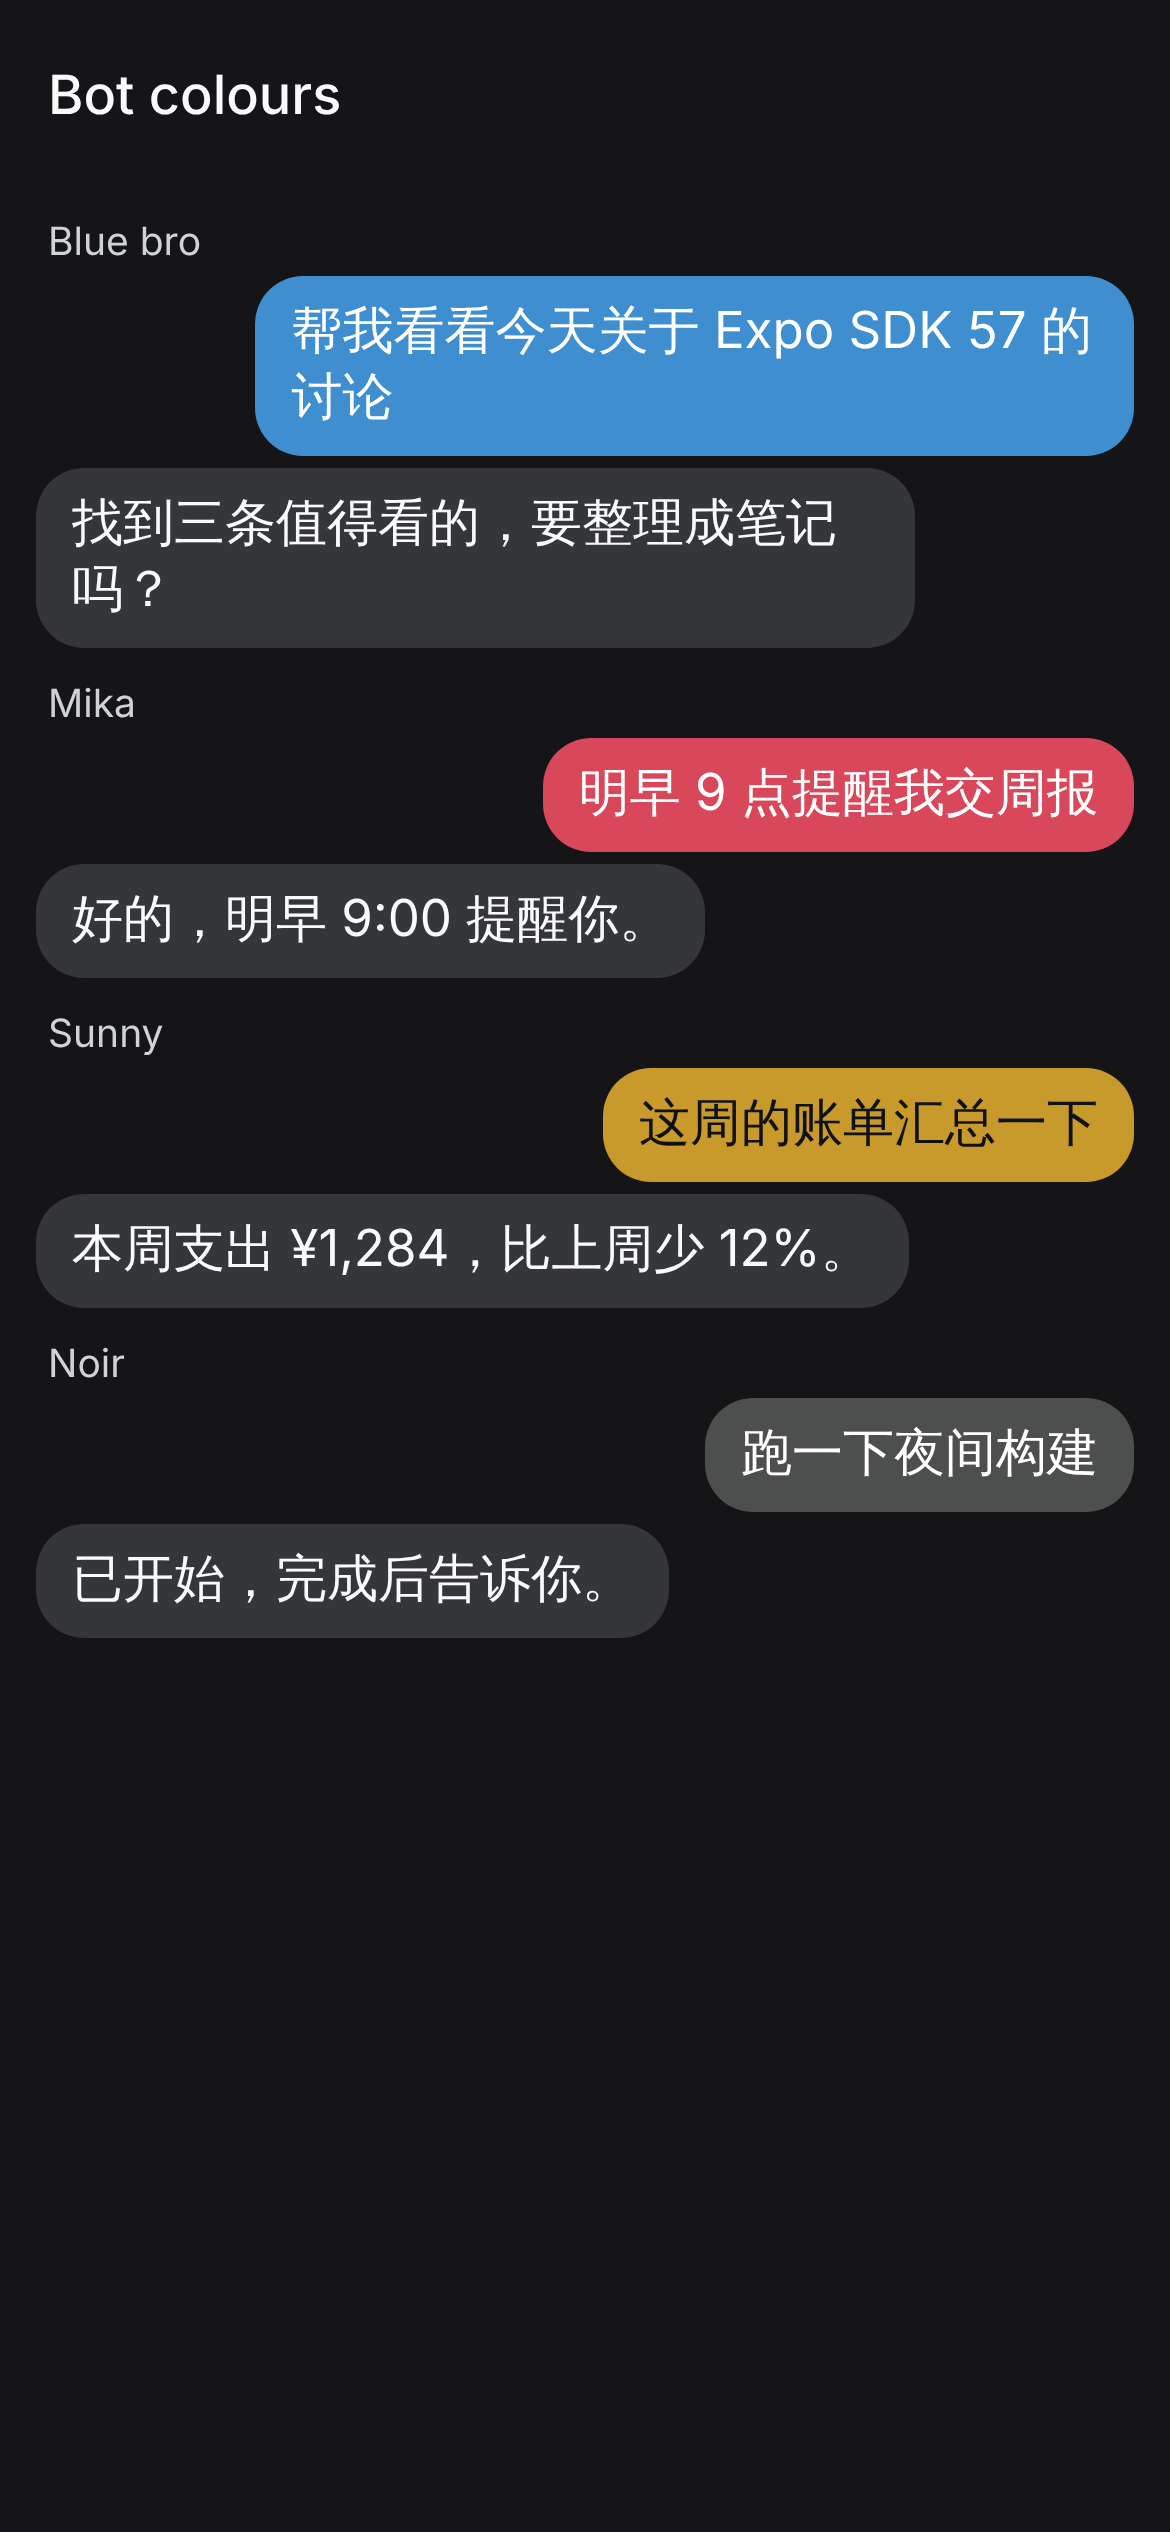
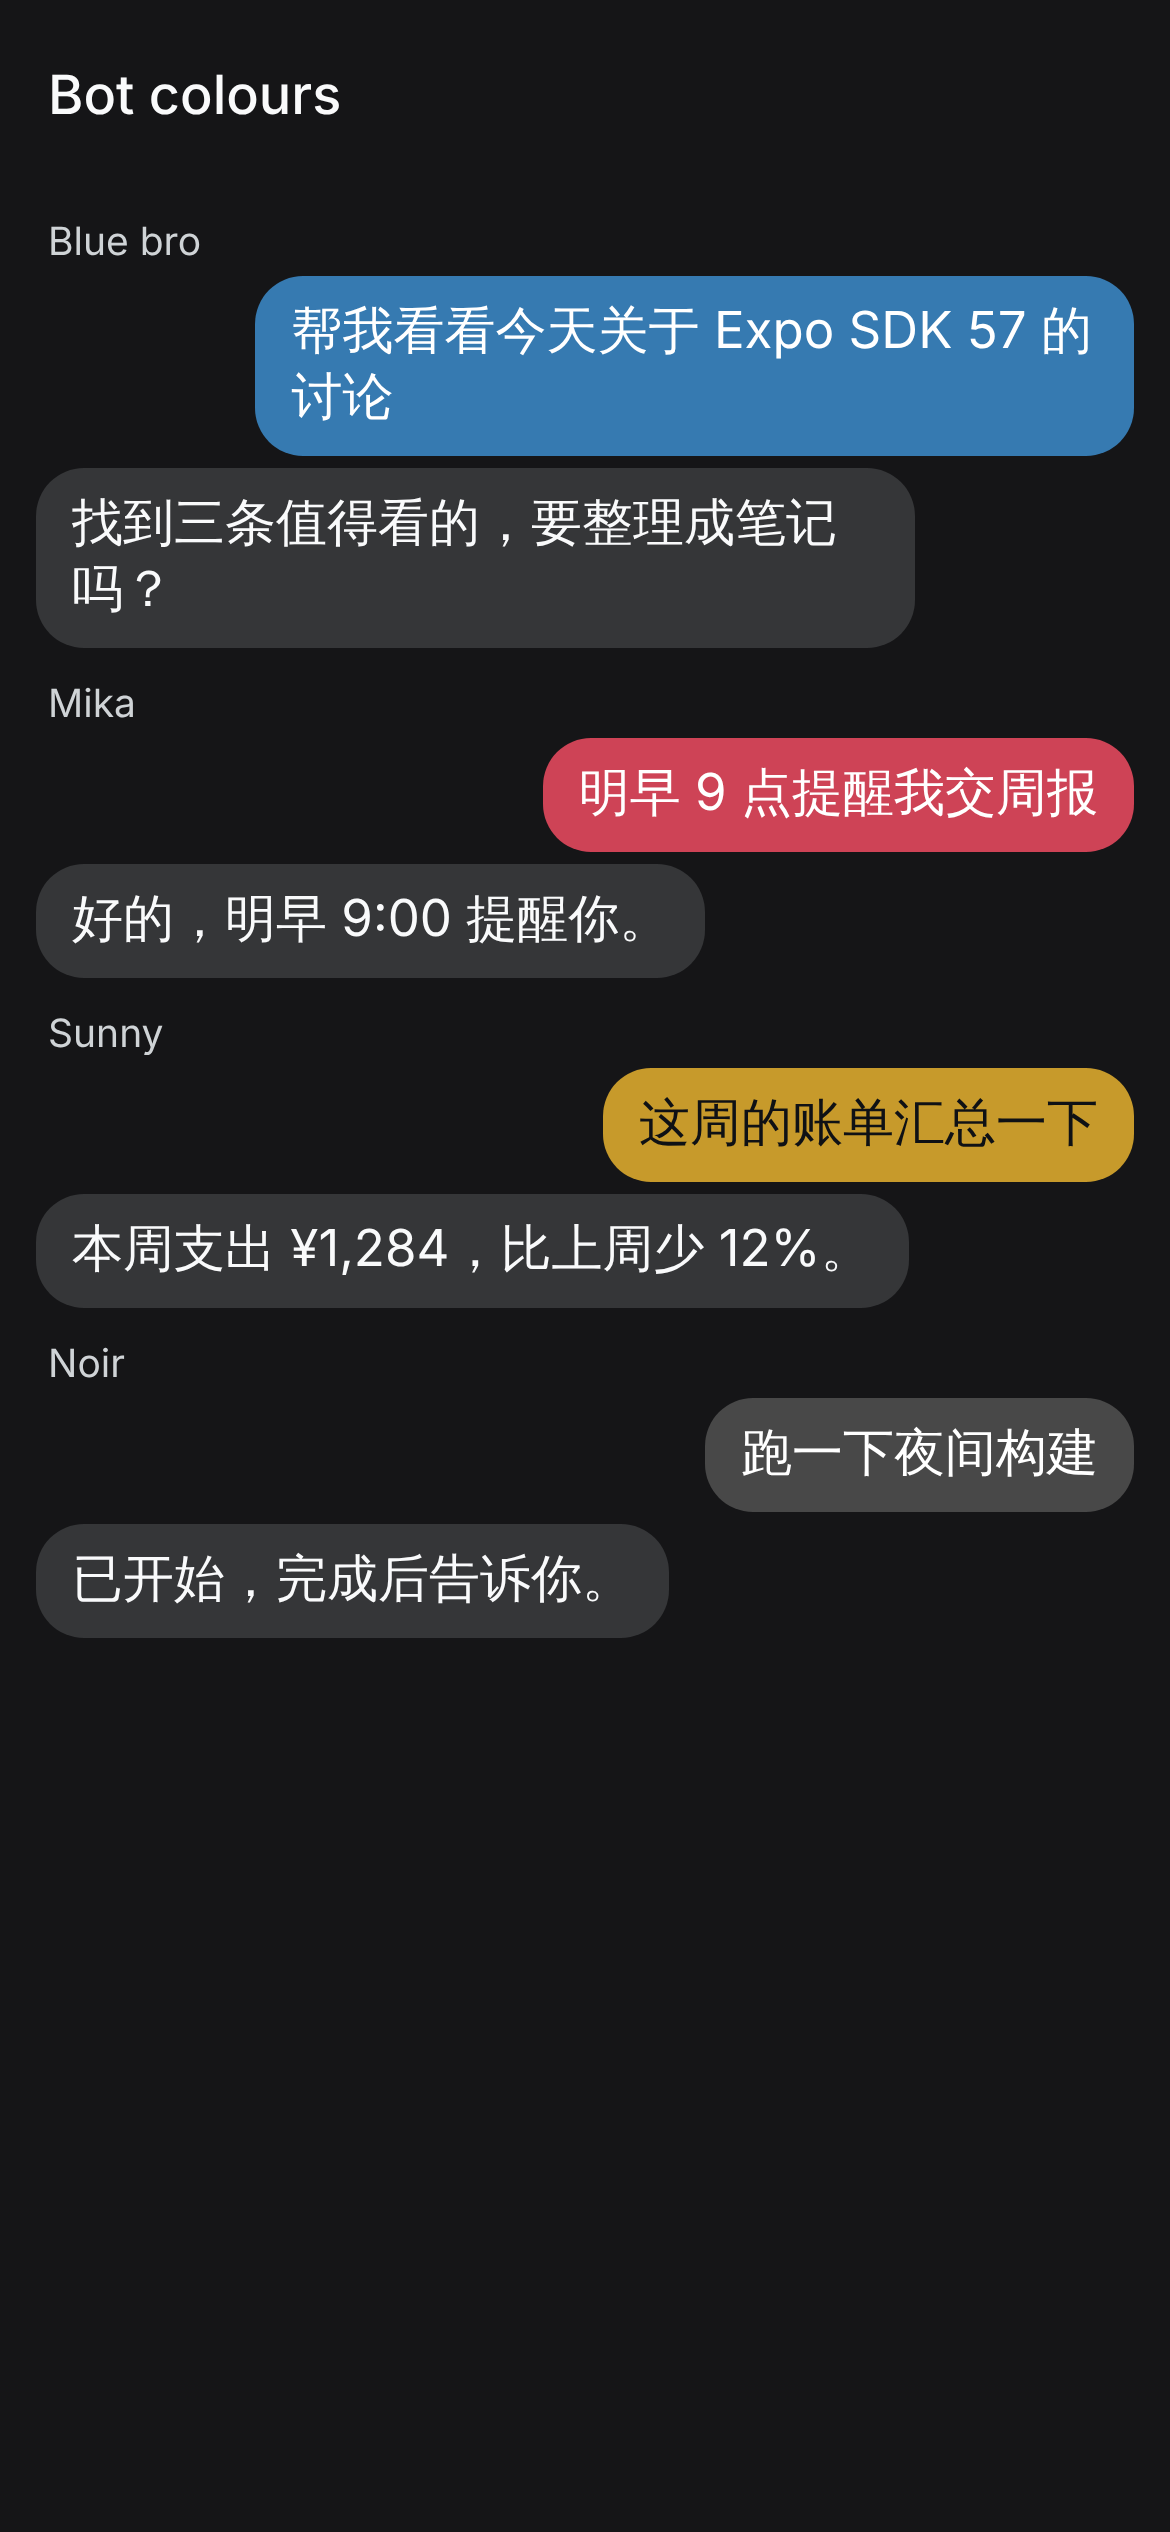
Keep DM message text at 4.5:1 on the Bot colour
A light Bot colour keeps its value and takes dark text; any other colour
takes white text and is darkened just enough to reach 4.5:1. Card labels
in the Human bubble use onAccent, and the style guard also catches named
colour literals.

Claude-Session: https://claude.ai/code/session_01NXyC3bMDx77BSSgVteLdRg

Changed region(s): [[0.2154, 0.0936, 0.9846, 0.1872]]

diff --git a/apps/mobile/test/design-tokens.test.ts b/apps/mobile/test/design-tokens.test.ts
@@ -84,6 +84,16 @@ describe('resolveTheme', () => {
   });
 });
 
+function contrastOf(a: string, b: string): number {
+  const lum = (hex: string) =>
+    [16, 8, 0]
+      .map((shift) => ((Number.parseInt(hex.slice(1), 16) >> shift) & 0xff) / 255)
+      .map((c) => (c <= 0.03928 ? c / 12.92 : ((c + 0.055) / 1.055) ** 2.4))
+      .reduce((sum, c, index) => sum + c * [0.2126, 0.7152, 0.0722][index]!, 0);
+  const [hi, lo] = [lum(a), lum(b)].sort((x, y) => y - x) as [number, number];
+  return (hi + 0.05) / (lo + 0.05);
+}
+
 describe('Bot colour on the Human bubble', () => {
   const bot = { slug: 'ada', displayName: 'Ada', state: 'idle' as const, paused: false };
 
@@ -92,18 +102,28 @@ describe('Bot colour on the Human bubble', () => {
       '#2f9e8f',
     );
     expect(botColor(bot)).toMatch(/^#[0-9a-f]{6}$/);
-    expect(botColor(bot)).toBe(botColor({ ...bot, displayName: 'Ada' }));
   });
 
-  it('keeps a saturated colour and picks readable text on it', () => {
-    expect(withAccent(palette.light, '#d9475a')).toMatchObject({
-      accent: '#d9475a',
-      onAccent: '#ffffff',
-    });
+  it('keeps message text at 4.5:1 on every Bot colour', () => {
+    for (const scheme of [palette.light, palette.dark])
+      for (const source of ['#d9475a', '#3f8fd0', '#5f9e45', '#e07a3f', '#888888', '#c79a2b']) {
+        const { accent, onAccent } = withAccent(scheme, source);
+        expect(contrastOf(accent, onAccent), `${source} → ${accent}`).toBeGreaterThanOrEqual(4.5);
+      }
+  });
+
+  it('keeps a light colour as is with dark text, and darkens a mid-tone under white text', () => {
     expect(withAccent(palette.dark, '#c79a2b')).toMatchObject({
       accent: '#c79a2b',
       onAccent: '#0f1115',
     });
+    expect(withAccent(palette.light, '#5b2ecc')).toMatchObject({
+      accent: '#5b2ecc',
+      onAccent: '#ffffff',
+    });
+    const red = withAccent(palette.light, '#d9475a');
+    expect(red.onAccent).toBe('#ffffff');
+    expect(red.accent).not.toBe('#d9475a');
   });
 
   it('lifts a colour that would vanish into the chat background', () => {

diff --git a/apps/mobile/src/ui/design/resolve-theme.ts b/apps/mobile/src/ui/design/resolve-theme.ts
@@ -44,7 +44,8 @@ function contrast(a: string, b: string): number {
 const INK_LIGHT = '#ffffff';
 const INK_DARK = '#0f1115';
 const SEPARATION = 1.3;
-const LIGHT_INK_FLOOR = 3;
+const BODY_CONTRAST = 4.5;
+const LIGHT_SURFACE = 3;
 
 function mix(from: string, to: string, amount: number): string {
   const a = rgb(from);
@@ -65,15 +66,25 @@ export function withAccent(
   source: string | undefined,
 ): Record<ColorRole, string> {
   if (source === undefined || !HEX.test(source)) return color;
-  const steps = Array.from({ length: 21 }, (_, step) => step / 20);
-  const amount =
+  const steps = Array.from({ length: 41 }, (_, step) => step / 40);
+  const separated = mix(
+    source.toLowerCase(),
+    color.fg,
     steps.find((step) =>
       [color.base, color.surface].every(
         (behind) => contrast(mix(source.toLowerCase(), color.fg, step), behind) >= SEPARATION,
       ),
-    ) ?? 1;
-  const accent = mix(source.toLowerCase(), color.fg, amount);
-  const onAccent = contrast(accent, INK_LIGHT) >= LIGHT_INK_FLOOR ? INK_LIGHT : INK_DARK;
+    ) ?? 1,
+  );
+  if (contrast(separated, INK_LIGHT) < LIGHT_SURFACE)
+    return { ...color, accent: separated, onAccent: INK_DARK };
+  const accent = mix(
+    separated,
+    '#000000',
+    steps.find((step) => contrast(mix(separated, '#000000', step), INK_LIGHT) >= BODY_CONTRAST) ??
+      1,
+  );
+  const onAccent = INK_LIGHT;
   return { ...color, accent, onAccent };
 }
 

diff --git a/apps/mobile/test/style-guard.test.ts b/apps/mobile/test/style-guard.test.ts
@@ -18,7 +18,8 @@ const LEGACY = new Set([
   'src/ui/request-parts.tsx',
 ]);
 
-const LITERAL_COLOR = /['"`](?:#[0-9a-f]{3,8}|rgba?\(|hsla?\()/i;
+const LITERAL_COLOR =
+  /['"`](?:#[0-9a-f]{3,8}|rgba?\(|hsla?\()|[cC]olor\s*:\s*['"`](?!transparent['"`])[a-z]+['"`]/i;
 const LITERAL_SCALE =
   /\b(?:fontSize|lineHeight|fontWeight|letterSpacing|gap|rowGap|columnGap|padding\w*|margin\w*|border\w*Radius|borderRadius|border\w*Width)\s*:\s*(?:-?[1-9]|['"`]\d)/;
 

diff --git a/apps/mobile/src/ui/message-bubble.tsx b/apps/mobile/src/ui/message-bubble.tsx
@@ -62,7 +62,7 @@ export function MessageBubble({
         </Text>
       ) : null}
       {message.card ? (
-        <Text variant="meta" tone="muted" style={{ fontStyle: 'italic' }}>
+        <Text variant="meta" tone={human ? ink : 'muted'} style={{ fontStyle: 'italic' }}>
           {t.card}
         </Text>
       ) : null}

diff --git a/apps/mobile/DESIGN.md b/apps/mobile/DESIGN.md
@@ -46,8 +46,8 @@ References:
   - An inverted list. Messages from the same author within 5 minutes form a group, and a time separator appears after a 30-minute gap.
   - Bot bubbles are `surface`. Human bubbles are `accent` with `onAccent` text.
   - In a DM, `accent` is that Bot's primary colour (`AccentProvider` with `botColor`), so each Bot's chat has its own Human bubble colour.
-    - Text on it is white when white reaches 3:1, as in iOS Messages, otherwise dark.
-    - A colour too close to the chat background or the Bot bubble (under 1.3:1 against `base` or `surface`, such as black hair in dark mode) is mixed toward `fg` until it separates from both.
+    - A colour too close to the chat background or the Bot bubble (under 1.3:1 against `base` or `surface`, such as black hair in dark mode) is first mixed toward `fg` until it separates from both.
+    - Message text on it always reaches 4.5:1. A light colour (white under 3:1, such as yellow) keeps its value and takes dark text. Any other colour takes white text and is darkened just enough for white to reach 4.5:1.
   - Bubbles use radius `lg` and are at most 80% wide.
   - Reactions are small chips on the bubble corner.
   - Delivery: pending shows at 70% opacity, failed offers "Not sent · Tap to retry", and sent shows nothing.
